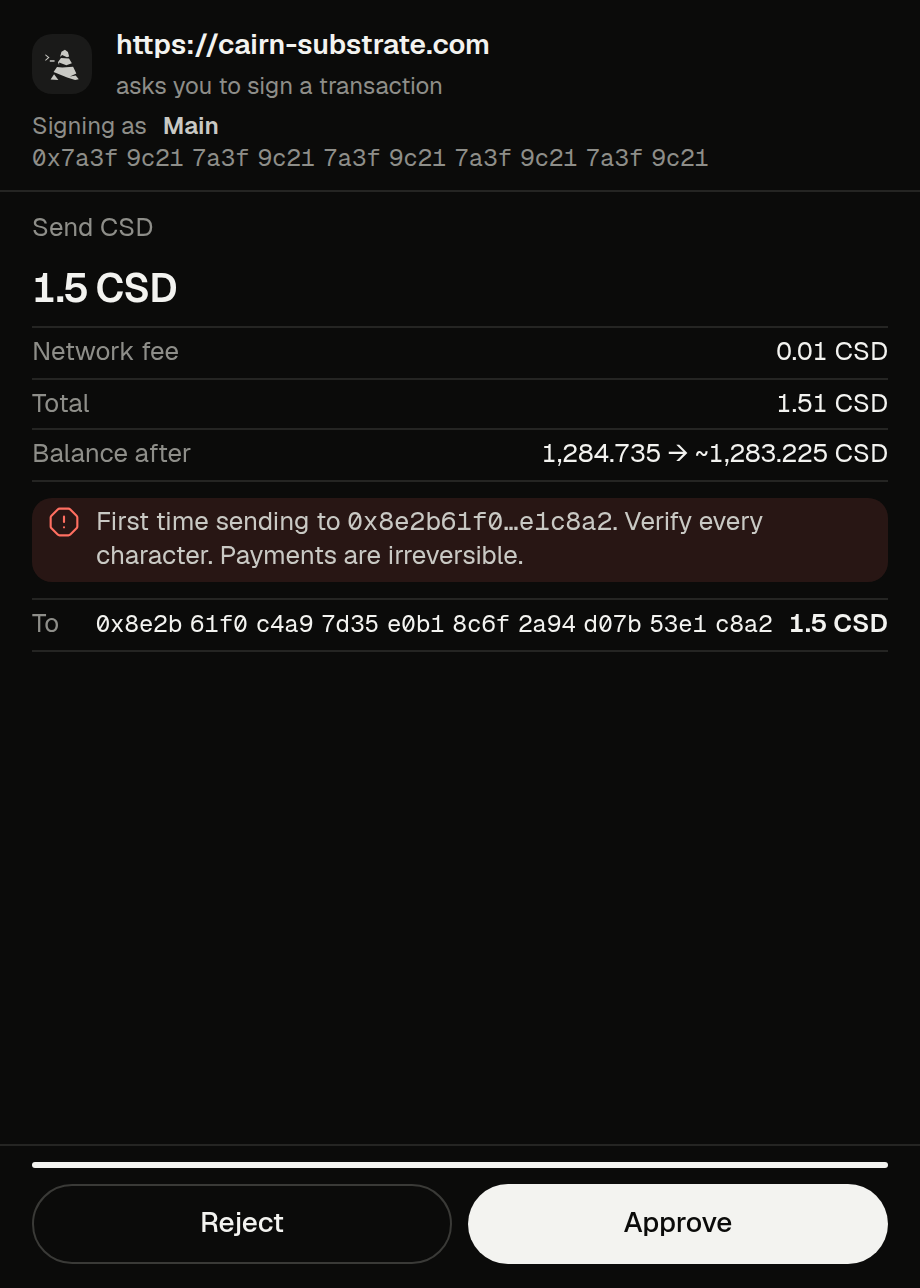
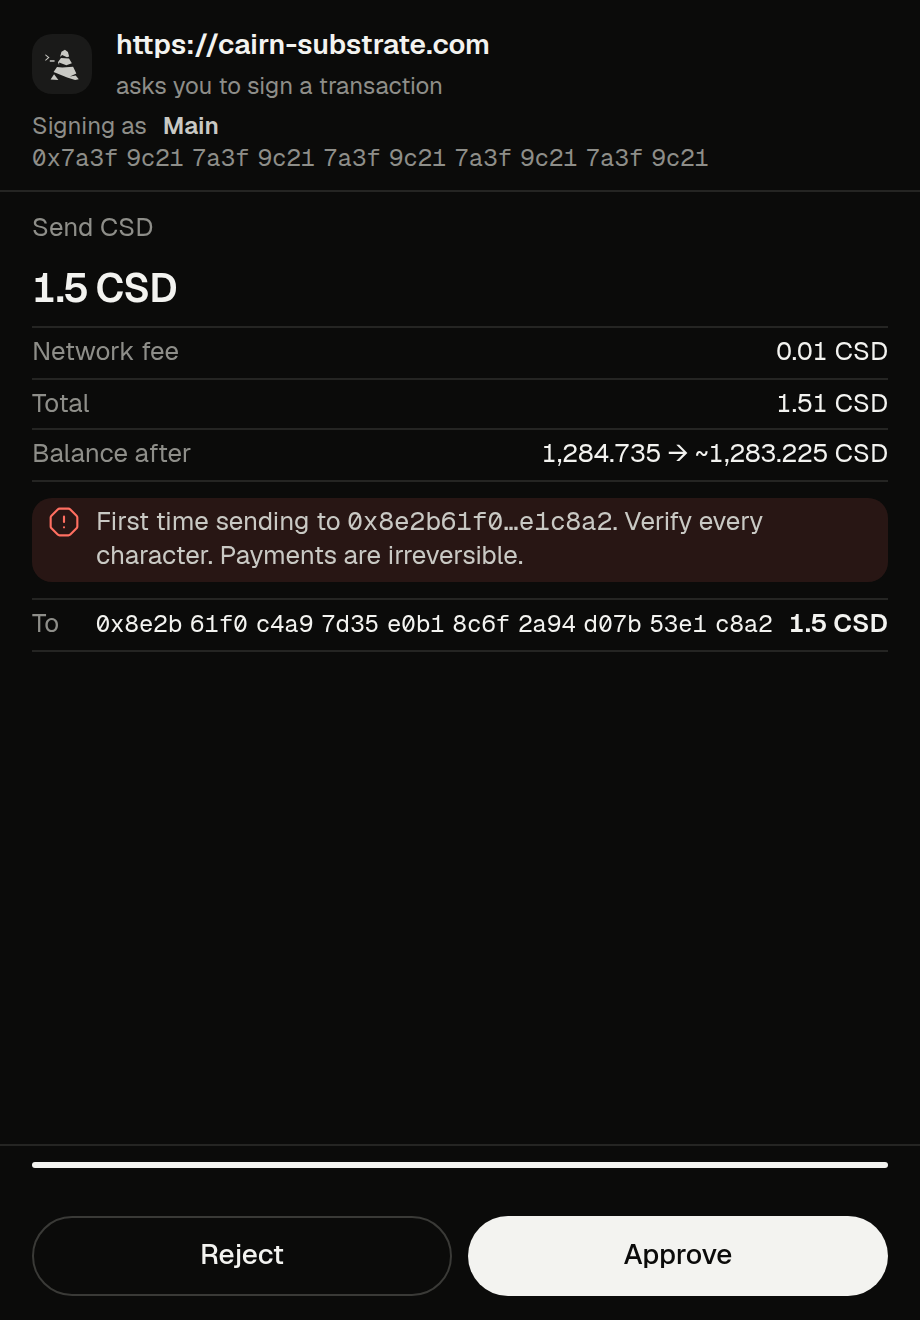
Approval window: a line above the buttons says what is below the fold
A site can still make a request longer than the window (more recipients, a long origin). While the request body does
not end in view, #ap-more directly above the buttons says what is hidden: "N more recipients below: scroll to see
them" ("1 more recipient below: scroll to see it") while a recipient row is not fully shown, otherwise "More below:
scroll to read the whole request". approve.ts recomputes it from geometry on a scroll, on any change to the request
and on a resize; it never touches the buttons. Its line is always reserved in the footer, so it never moves the
buttons or covers the request; the window grows by that line to 460 by 716 and every fold margin stays (0 to +1 px).

test/approve-layout-chrome.test.mjs checks the line against the geometry on every fold case, a 5-recipient send that
fits (no line), a 5-recipient send from a long look-alike origin (2 hidden, then 1 after a scroll), a 13-recipient
send (12 rows hidden), that scrolling to the end hides it, that new content brings it back, and that the buttons and
the request area do not move. Also mint, bid, offer-cancel and token-meta records join the fold cases (308 checks).
On e397906 52 fail; without the scroll listener 4, the MutationObserver 9, the recipient filter 6, the reserved
height 2. The two fake DOMs get no-op observers.

Claude-Session: https://claude.ai/code/session_01E5HN3FXkT8EMN8Vidtu47a

Changed region(s): [[0.0304, 0.0311, 0.9739, 0.4969], [0.0304, 0.8696, 0.9739, 0.9627], [0.0609, 0.0311, 0.0913, 0.0621]]

diff --git a/src/popup/approve.ts b/src/popup/approve.ts
@@ -1,7 +1,7 @@
 // MetaMask-style approval window: opened by the background when a site calls
 // window.cairn.*. Unlock if needed, review the request, approve/reject. Closes
 // itself when the queue is empty. The pure "what am I signing?" formatters live in ./clearsign (unit-tested).
-import { describe, debitOf, checkRow, escapeHtml, groupedAddr, paidRecipients, sendWarnings, fmtBalance, isZeroAddr, nfinalizeApproveGate, tokenQuoteHtml, revealPreviewHtml, fillViewHtml, balanceShortNote, cairnxTokenTickers, reservationUnconfirmedHtml, secondSourceNote, APPROVE_LABELS, UNCONFIRMED_LABELS, type RecipientKind } from "./clearsign.js";
+import { describe, debitOf, checkRow, escapeHtml, groupedAddr, paidRecipients, sendWarnings, fmtBalance, isZeroAddr, moreBelowText, nfinalizeApproveGate, tokenQuoteHtml, revealPreviewHtml, fillViewHtml, balanceShortNote, cairnxTokenTickers, reservationUnconfirmedHtml, secondSourceNote, APPROVE_LABELS, UNCONFIRMED_LABELS, type RecipientKind } from "./clearsign.js";
 import { nameActApproveGate, readNameRecord, NAME_READ_TIMEOUT_MS, type NameFetchResult } from "../core/namegate.js";
 import { decodeCairnxRecord, CAIRNX_DOMAIN, CONF_TOKEN_FILL } from "../core/cairnx.js";
 import type { CairnThemeApi } from "../vendor/cairn-ui/theme.js";
@@ -550,6 +550,23 @@ async function resolve(approve: boolean) {
   else msg("Approved.", "ok");
   render();
 }
+
+// A site can make a request longer than the window (more recipients, a long origin). While the request body does not
+// end in view, #ap-more says so, counting the recipient rows not fully shown. It reads geometry only: it never touches
+// the buttons, and it is recomputed on a scroll, on any change to the request (the async rows) and on a resize.
+const RECIPIENT_ROWS = new Set(["To", "Resolves to", "Paid to", "Only fillable by"]);
+function updateMore() {
+  const req = $("req");
+  const open = !($("view-req") as HTMLElement).hidden && req.scrollTop + req.clientHeight < req.scrollHeight - 1;
+  const fold = req.getBoundingClientRect().bottom;
+  const hidden = open ? [...req.querySelectorAll(".kv > div")]
+    .filter((row) => RECIPIENT_ROWS.has(row.querySelector("dt")?.textContent ?? "") && row.getBoundingClientRect().bottom > fold + 0.5).length : 0;
+  const text = open ? moreBelowText(hidden) : "";
+  if ($("ap-more").textContent !== text) $("ap-more").textContent = text;
+}
+$("req").addEventListener("scroll", updateMore);
+new MutationObserver(updateMore).observe($("app"), { subtree: true, childList: true, characterData: true, attributes: true, attributeFilter: ["hidden"] });
+new ResizeObserver(updateMore).observe($("req"));
 
 $("btn-unlock").addEventListener("click", async () => { try { await call("unlock", ($("unlock-pw") as HTMLInputElement).value); msg("Unlocked.", "ok"); render(); } catch (e: any) { msg(e.message, "err"); } });
 $("btn-approve").addEventListener("click", () => { if (!($("btn-approve") as HTMLButtonElement).disabled) resolve(true); });

diff --git a/src/popup/popup.css b/src/popup/popup.css
@@ -808,7 +808,7 @@
   /* The footer: the latch, then Reject and Approve side by side at equal width. The latch fills with ink while Reject
      is disarmed after a new request and stays full once it arms. */
   .ap-foot {
-    flex: none; display: flex; flex-direction: column; gap: var(--ui-space-2);
+    flex: none; display: flex; flex-direction: column; gap: var(--ui-space-1);
     padding: var(--ui-space-2) var(--ui-space-4) var(--ui-space-3); border-top: 1px solid var(--ui-line); background: var(--ui-bg);
   }
   .latch { height: 3px; border-radius: var(--ui-radius-pill); background: var(--ui-line); overflow: hidden; }
@@ -816,6 +816,12 @@
   /* 700ms is approve.ts's re-enable floor (R3 section 3), not a design duration */
   .ap-foot:has(#btn-reject:disabled) .latch > i { animation: arm 700ms linear both; }
   @keyframes arm { from { width: 0; } to { width: 100%; } }
+  /* what the request hides below the fold (approve.ts): its line is always reserved, so the cue never moves the
+     buttons and never takes room from the request */
+  .ap-more {
+    margin: 0; min-height: 1lh; white-space: nowrap; text-align: center;
+    color: var(--ui-ink-2); font-size: var(--ui-text-caption); line-height: var(--ui-leading-snug);
+  }
   .page-approve .actions { display: grid; grid-template-columns: 1fr 1fr; gap: var(--ui-space-2); padding: 0; }
   .page-approve .actions button:disabled { opacity: 0.32; }
   .page-approve #msg { flex: none; padding: 0 var(--ui-space-4) var(--ui-space-3); font-size: var(--ui-text-xs); text-align: center; color: var(--ui-muted); background: var(--ui-bg); }

diff --git a/src/popup/clearsign.ts b/src/popup/clearsign.ts
@@ -540,6 +540,14 @@ export function fillViewHtml(view: { ok?: boolean; offerId?: string; giveTicker?
     + (reserved ? rows([["Listing", `<code>${escapeHtml(view.offerId!)}</code>`]]) + lede(`<span class="dim">The offer id below is your reservation of this listing.</span>`) : "");
 }
 
+// The line above the approval window's buttons while the request scrolls: how many recipient rows are not fully in
+// view, or that something else is.
+export function moreBelowText(recipients: number): string {
+  if (recipients === 1) return "1 more recipient below: scroll to see it";
+  if (recipients > 1) return `${recipients} more recipients below: scroll to see them`;
+  return "More below: scroll to read the whole request";
+}
+
 // The approval window's buttons, and their labels in the reservation confirm step (RESERVATION_UNCONFIRMED).
 export const APPROVE_LABELS = { approve: "Approve", reject: "Reject" } as const;
 export const UNCONFIRMED_LABELS = { approve: "Sign anyway", reject: "Cancel" } as const;

diff --git a/src/approve-window.ts b/src/approve-window.ts
@@ -2,7 +2,7 @@
 // weight must fit above the buttons in the page inside it, for every request type: test/approve-layout-chrome.test.mjs
 // measures the page at this width and at this height less APPROVE_FRAME_PX. Width is the axis small screens can spare:
 // at 460 a whole address and a short amount share one line.
-export const APPROVE_WINDOW = { width: 460, height: 700 } as const;
+export const APPROVE_WINDOW = { width: 460, height: 716 } as const;
 // What the browser draws inside those bounds: measured on Linux (Chrome 145 under X without a window manager) as nothing,
 // since an extension's own popup window has no location bar, and as 56 with the info bar of Chrome for Testing. Windows
 // and macOS are expected to draw a title bar inside the bounds (not measured here); 56 is the largest frame seen.

diff --git a/src/popup/approve.html b/src/popup/approve.html
@@ -28,6 +28,7 @@
       <div id="req" class="ap-body"></div>
       <div class="ap-foot">
         <div class="latch" aria-hidden="true"><i></i></div>
+        <p id="ap-more" class="ap-more" aria-live="polite"></p>
         <div class="actions">
           <button id="btn-reject">Reject</button>
           <button id="btn-approve" class="primary">Approve</button>

diff --git a/CHANGELOG.md b/CHANGELOG.md
@@ -16,7 +16,7 @@
 - In the approval window a website's renewal or name record verdict sits right under the cost rows and the
   warnings, and all first-time and address-poisoning warnings of a request share one red row, each on its own line,
   so a request to two new recipients shows both above the buttons.
-- The approval window opens at 460 by 700 (was 380 by 620), and everything that decides a signature sits above Reject
+- The approval window opens at 460 by 716 (was 380 by 620), and everything that decides a signature sits above Reject
   and Approve without scrolling, for every request type and for the long cases test/approve-layout-chrome.test.mjs
   builds (an unconfirmed reservation's confirm step, an underpaid name fee with its verdict, a token fill with a
   ticker warning, three recipients with a look-alike, a large fee and a short balance, a queue): the site and the
@@ -26,7 +26,11 @@
   line; rows, check rows and boxes are denser. Before, a CSD fill's recipients, a send's third first-time warning and
   a finalize's verdict sat below the buttons. The window is wider rather than only taller because width is what small
   screens can spare. A site can still make a request longer than the window (more recipients, a very long origin);
-  the cost, the recipient warnings and a name action's verdict then stay on top, and the rest scrolls.
+  the cost, the recipient warnings and a name action's verdict then stay on top, and the rest scrolls. A line directly
+  above the buttons then says what is out of view: "2 more recipients below: scroll to see them" (or "1 more recipient
+  below: scroll to see it") while a recipient row is not fully shown, otherwise "More below: scroll to read the whole
+  request". It goes once the request is scrolled to its end and comes back if the request grows; its line is always
+  reserved, so it never moves the buttons, never covers the request and never holds back Approve.
 - In the approval window the check rows drop their leading ⚠, as in the popup (the row's icon and tint carry it),
   and so do the balance note in the popup's send review and the second-source note after a sent fill; the inline
   "⚠ unusually large fee" and "⚠ unusually long claim window" marks inside a value stay. Two texts follow the new
